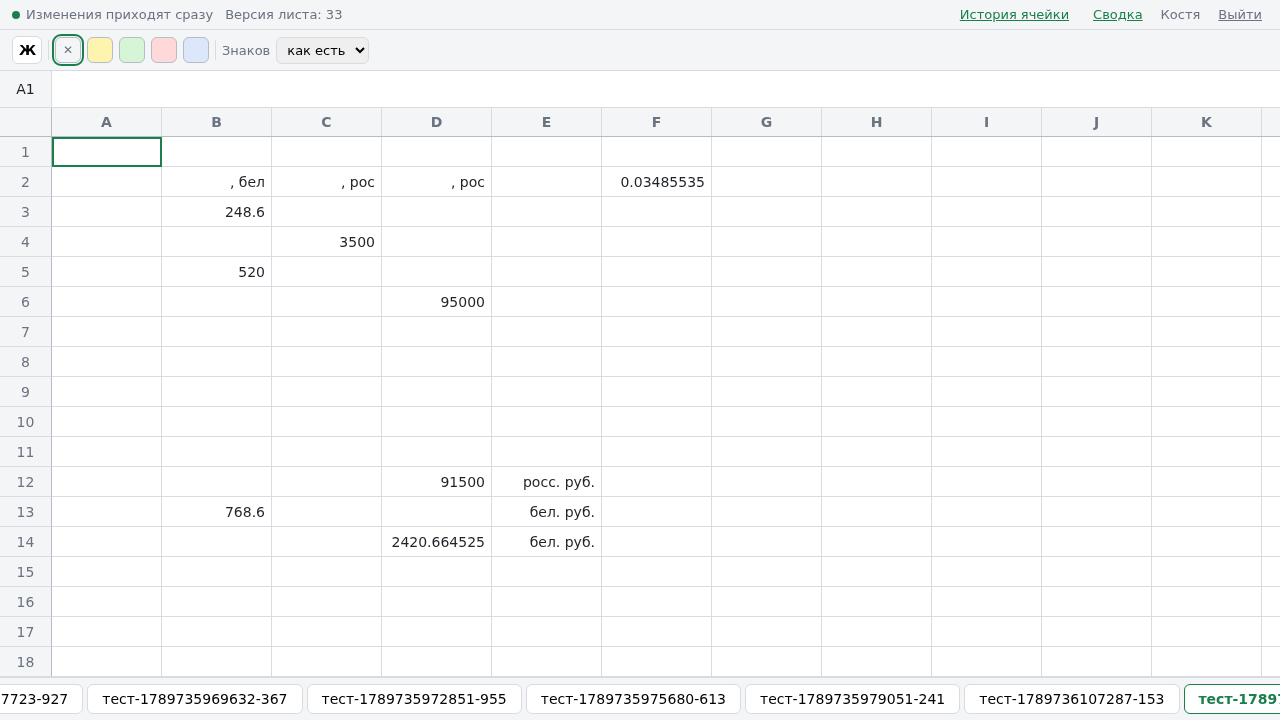
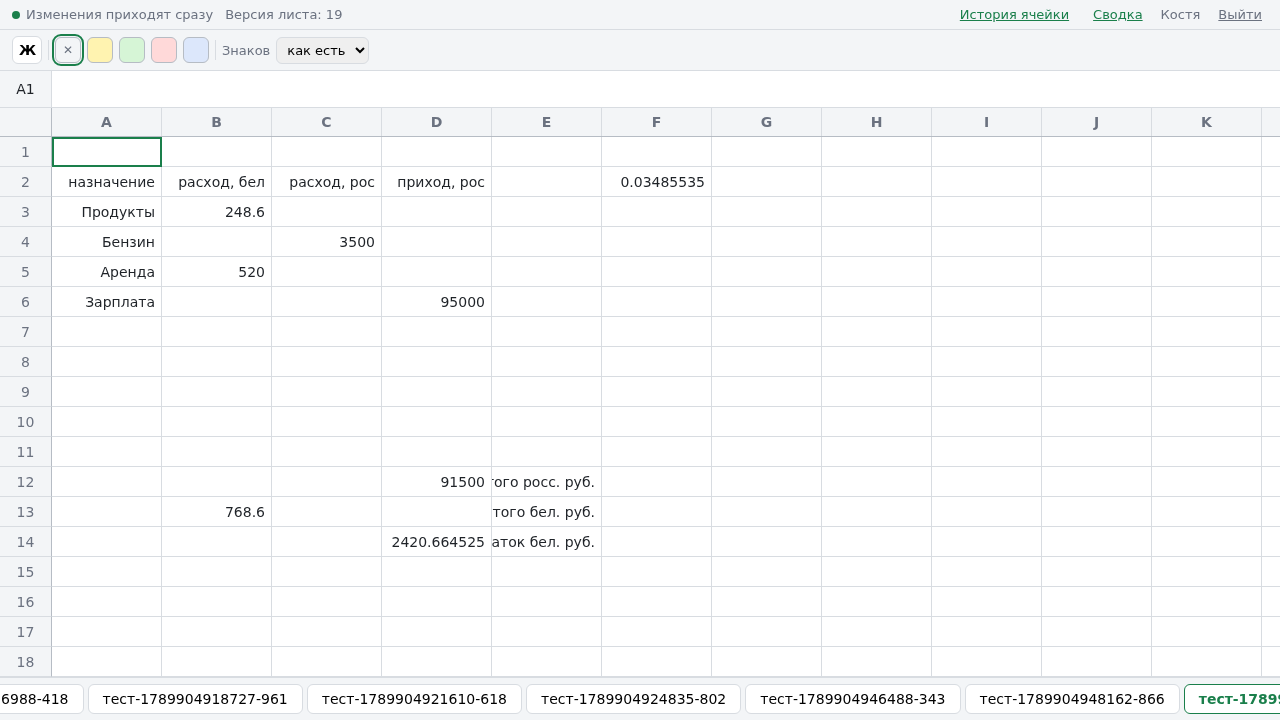
Ввод в сетке одним полем вместо поля на каждую правку
Поле рождалось при начале набора и умирало при её конце: отсюда ожидание
фокуса, ручной добор символов и слепое сохранение по уходу фокуса. Теперь поле
одно на всю сетку, живёт в разметке всегда и стоит поверх выбранной ячейки,
а вне правки сжимается в точку. Значение и фокус выставляются сразу, без
ожидания перерисовки.

Enter и Tab из поля больше не всплывают в сетку — она обрабатывала их повторно
и открывала правку заново на соседней ячейке. Открытая и не тронутая ячейка
не переписывается: запись идёт, только если значение изменилось.

Высота строки и ширина колонки номеров берутся из переменных оформления:
на телефоне они другие, и отрисовка видимых строк считала их неверно.

Записанная в журнале потеря начала строки оказалась артефактом тестов:
Playwright не шлёт нажатия клавиш для кириллицы, а вставляет такой текст прямо
в поле с фокусом. Помощник вписать открывает правку отдельным нажатием, снимок
для описания переснят, прогон снимков в Makefile починен.

diff --git a/frontend/src/features/sheet-grid/SheetGrid.vue b/frontend/src/features/sheet-grid/SheetGrid.vue
@@ -1,10 +1,11 @@
 <script setup lang="ts">
-import { computed, nextTick, onMounted, ref, watch } from 'vue';
+import { computed, onMounted, ref, watch } from 'vue';
 import { cellAddress, columnToLetters, displayedText, type Cell } from '../../entities/sheet';
 
-const ВЫСОТА_СТРОКИ = 30;
 const ШИРИНА_КОЛОНКИ_ПО_УМОЛЧАНИЮ = 110;
 const ЗАПАС_СТРОК = 6;
+const ВЫСОТА_СТРОКИ_ПО_УМОЛЧАНИЮ = 30;
+const ШИРИНА_НОМЕРА_ПО_УМОЛЧАНИЮ = 52;
 
 const properties = defineProps<{
     rowCount: number;
@@ -21,12 +22,19 @@ const emit = defineEmits<{
 
 const корень = ref<HTMLElement | null>(null);
 const область = ref<HTMLElement | null>(null);
-// Ссылка внутри v-for превращается в массив, поэтому поле запоминается вручную:
-// одновременно редактируется ровно одна ячейка, и хранить нужно один элемент.
-const редактор = { поле: null as HTMLInputElement | null };
+// Поле ввода одно на всю сетку и живёт в разметке всегда, просто становится
+// невидимым. Пока оно создавалось под каждую правку, фокус приходилось ждать,
+// и набранное до его появления пропадало.
+const поле = ref<HTMLInputElement | null>(null);
 const смещениеПрокрутки = ref(0);
 const высотаОбласти = ref(600);
-const редактируемоеЗначение = ref<string | null>(null);
+const высотаСтроки = ref(ВЫСОТА_СТРОКИ_ПО_УМОЛЧАНИЮ);
+const ширинаНомера = ref(ШИРИНА_НОМЕРА_ПО_УМОЛЧАНИЮ);
+const редактируется = ref(false);
+const редактируемоеЗначение = ref('');
+// Содержимое ячейки на момент начала правки: если человек ничего не изменил,
+// ячейку трогать не за что.
+const исходноеЗначение = ref('');
 
 const колонки = computed(() => Array.from({ length: properties.columnCount }, (_, index) => index + 1));
 
@@ -35,19 +43,50 @@ const колонки = computed(() => Array.from({ length: properties.columnCoun
  * колонок — это пять тысяч ячеек, и держать их все в разметке незачем.
  */
 const видимыеСтроки = computed(() => {
-    const первая = Math.max(1, Math.floor(смещениеПрокрутки.value / ВЫСОТА_СТРОКИ) + 1 - ЗАПАС_СТРОК);
-    const сколько = Math.ceil(высотаОбласти.value / ВЫСОТА_СТРОКИ) + ЗАПАС_СТРОК * 2;
+    const первая = Math.max(1, Math.floor(смещениеПрокрутки.value / высотаСтроки.value) + 1 - ЗАПАС_СТРОК);
+    const сколько = Math.ceil(высотаОбласти.value / высотаСтроки.value) + ЗАПАС_СТРОК * 2;
     const последняя = Math.min(properties.rowCount, первая + сколько);
 
     return Array.from({ length: последняя - первая + 1 }, (_, index) => первая + index);
 });
 
-const отступОкна = computed(() => ((видимыеСтроки.value[0] ?? 1) - 1) * ВЫСОТА_СТРОКИ);
-const полнаяВысота = computed(() => properties.rowCount * ВЫСОТА_СТРОКИ);
-const редактируется = computed(() => редактируемоеЗначение.value !== null);
+const отступОкна = computed(() => ((видимыеСтроки.value[0] ?? 1) - 1) * высотаСтроки.value);
+const полнаяВысота = computed(() => properties.rowCount * высотаСтроки.value);
+const режимВвода = computed(() => (редактируемоеЗначение.value.startsWith('=') ? 'text' : 'decimal'));
+
+/**
+ * Поле ввода стоит поверх выбранной ячейки, а вне правки сжимается в точку:
+ * убрать его из разметки нельзя — тогда оно снова не успевало бы к первому
+ * нажатию клавиши.
+ */
+const положениеПоля = computed(() => {
+    const сверху = (properties.selected.row - 1) * высотаСтроки.value;
+    const слева = отступКолонки(properties.selected.column);
+    const положение: Record<string, string> = { top: `${сверху}px`, left: `${слева}px` };
+
+    if (!редактируется.value) {
+        return { ...положение, width: '0', height: '0', padding: '0', border: 'none', opacity: '0' };
+    }
+
+    return {
+        ...положение,
+        width: `${ширинаКолонки(properties.selected.column)}px`,
+        height: `${высотаСтроки.value}px`,
+    };
+});
 
 function ширинаКолонки(column: number): number {
     return properties.columnWidths[columnToLetters(column)] ?? ШИРИНА_КОЛОНКИ_ПО_УМОЛЧАНИЮ;
+}
+
+function отступКолонки(column: number): number {
+    let отступ = ширинаНомера.value;
+
+    for (let номер = 1; номер < column; номер += 1) {
+        отступ += ширинаКолонки(номер);
+    }
+
+    return отступ;
 }
 
 function ячейка(row: number, column: number): Cell | undefined {
@@ -65,7 +104,7 @@ function приПрокрутке(event: Event): void {
 }
 
 function выбрать(row: number, column: number): void {
-    завершитьРедактирование();
+    сохранить();
 
     // Щелчок по ячейке возвращает фокус сетке: иначе после работы с вкладками
     // или панелями нажатия клавиш уходят в никуда и ввод не начинается.
@@ -76,22 +115,48 @@ function выбрать(row: number, column: number): void {
 
 function начатьРедактирование(начальноеЗначение?: string): void {
     const текущая = ячейка(properties.selected.row, properties.selected.column);
-    редактируемоеЗначение.value = начальноеЗначение ?? текущая?.input ?? '';
+    исходноеЗначение.value = текущая?.input ?? '';
+    редактируемоеЗначение.value = начальноеЗначение ?? исходноеЗначение.value;
+    редактируется.value = true;
 
-    void nextTick(() => редактор.поле?.focus());
+    const элемент = поле.value;
+
+    if (элемент === null) {
+        return;
+    }
+
+    // Значение и фокус выставляются сразу, не дожидаясь перерисовки: иначе
+    // следующие нажатия попадут в поле, где ещё пусто, и затрут начало строки.
+    элемент.value = редактируемоеЗначение.value;
+    элемент.focus();
+    элемент.setSelectionRange(элемент.value.length, элемент.value.length);
 }
 
-function завершитьРедактирование(): void {
-    редактируемоеЗначение.value = null;
+function отменитьРедактирование(): void {
+    редактируется.value = false;
+    редактируемоеЗначение.value = '';
+    исходноеЗначение.value = '';
 }
 
+/**
+ * Записывает правку, если она вообще была.
+ *
+ * Открытая и не тронутая ячейка не должна ни во что превращаться: раньше
+ * случайная потеря фокуса сохраняла пустое поле и стирала содержимое.
+ */
 function сохранить(): void {
-    if (редактируемоеЗначение.value === null) {
+    if (!редактируется.value) {
         return;
     }
 
     const введённое = редактируемоеЗначение.value;
-    завершитьРедактирование();
+    const изменилось = введённое !== исходноеЗначение.value;
+
+    отменитьРедактирование();
+
+    if (!изменилось) {
+        return;
+    }
 
     emit('commit', {
         row: properties.selected.row,
@@ -109,16 +174,6 @@ function сдвинуть(строкой: number, колонкой: number): voi
 
 function приНажатии(event: KeyboardEvent): void {
     if (редактируется.value) {
-        // Поле ввода появляется в разметке не мгновенно, и набранное за это время
-        // иначе пропадало бы: при быстром наборе «расход» превращалось в «ход».
-        const полеЕщёНеПолучилоФокус = document.activeElement !== редактор.поле;
-        const обычныйСимвол = event.key.length === 1 && !event.ctrlKey && !event.metaKey;
-
-        if (полеЕщёНеПолучилоФокус && обычныйСимвол) {
-            event.preventDefault();
-            редактируемоеЗначение.value = (редактируемоеЗначение.value ?? '') + event.key;
-        }
-
         return;
     }
 
@@ -151,22 +206,37 @@ function приНажатии(event: KeyboardEvent): void {
 }
 
 function приНажатииВПоле(event: KeyboardEvent): void {
+    // Клавиши поля не должны обрабатываться ещё и сеткой: всплывший Enter
+    // открывал правку заново, уже на соседней ячейке.
+    event.stopPropagation();
+
     if (event.key === 'Enter') {
         event.preventDefault();
         сохранить();
+        корень.value?.focus();
         сдвинуть(1, 0);
-    }
 
-    if (event.key === 'Escape') {
-        event.preventDefault();
-        завершитьРедактирование();
+        return;
     }
 
     if (event.key === 'Tab') {
         event.preventDefault();
         сохранить();
+        корень.value?.focus();
         сдвинуть(0, 1);
+
+        return;
     }
+
+    if (event.key === 'Escape') {
+        event.preventDefault();
+        отменитьРедактирование();
+        корень.value?.focus();
+    }
+}
+
+function приПотереФокуса(): void {
+    сохранить();
 }
 
 function стильЯчейки(cell: Cell | undefined): Record<string, string> {
@@ -195,10 +265,19 @@ function стильЯчейки(cell: Cell | undefined): Record<string, string> 
 
 watch(
     () => properties.selected,
-    () => завершитьРедактирование(),
+    () => отменитьРедактирование(),
 );
 
 onMounted(() => {
+    // Размеры заданы переменными оформления и на телефоне другие, поэтому
+    // берутся оттуда: сетка и поле ввода должны считать их одинаково.
+    const оформление = getComputedStyle(document.documentElement);
+    const высота = Number.parseInt(оформление.getPropertyValue('--высота-строки'), 10);
+    const ширина = Number.parseInt(оформление.getPropertyValue('--ширина-номера-строки'), 10);
+
+    высотаСтроки.value = Number.isNaN(высота) ? ВЫСОТА_СТРОКИ_ПО_УМОЛЧАНИЮ : высота;
+    ширинаНомера.value = Number.isNaN(ширина) ? ШИРИНА_НОМЕРА_ПО_УМОЛЧАНИЮ : ширина;
+
     // Сколько строк помещается на экране, известно только после отрисовки.
     высотаОбласти.value = область.value?.clientHeight ?? высотаОбласти.value;
 });
@@ -237,19 +316,20 @@ defineExpose({ начатьРедактирование });
                             @click="выбрать(row, column)"
                             @dblclick="начатьРедактирование()"
                         >
-                            <input
-                                v-if="выбрана(row, column) && редактируется"
-                                :ref="(элемент) => (редактор.поле = элемент as HTMLInputElement | null)"
-                                v-model="редактируемоеЗначение"
-                                class="сетка__ввод"
-                                :inputmode="редактируемоеЗначение?.startsWith('=') ? 'text' : 'decimal'"
-                                @keydown="приНажатииВПоле"
-                                @blur="сохранить"
-                            />
-                            <template v-else>{{ displayedText(ячейка(row, column)) }}</template>
+                            {{ displayedText(ячейка(row, column)) }}
                         </div>
                     </div>
                 </div>
+
+                <input
+                    ref="поле"
+                    v-model="редактируемоеЗначение"
+                    class="сетка__ввод"
+                    :style="положениеПоля"
+                    :inputmode="режимВвода"
+                    @keydown="приНажатииВПоле"
+                    @blur="приПотереФокуса"
+                />
             </div>
         </div>
     </div>

diff --git a/e2e/tests/вспомогательное.ts b/e2e/tests/вспомогательное.ts
@@ -23,9 +23,17 @@ export function ячейка(page: Page, колонка: string, строка: n
         .nth(номерКолонки - 1);
 }
 
+/**
+ * Вписывает значение в ячейку.
+ *
+ * Правка открывается отдельным нажатием: Playwright не умеет посылать нажатия
+ * клавиш для кириллицы — он вставляет такой текст прямо в поле, уже получившее
+ * фокус. Набор без открытой правки проверяется отдельно, латиницей.
+ */
 export async function вписать(page: Page, колонка: string, строка: number, значение: string): Promise<void> {
     await ячейка(page, колонка, строка).click();
-    await page.keyboard.type(значение);
+    await page.keyboard.press('F2');
+    await page.locator('.сетка__ввод').fill(значение);
     await page.keyboard.press('Enter');
 }
 

diff --git a/frontend/src/styles/main.css b/frontend/src/styles/main.css
@@ -250,13 +250,15 @@ button {
 }
 
 .сетка__ввод {
-    width: 100%;
-    height: 100%;
-    border: none;
+    position: absolute;
+    z-index: 2;
+    padding: 0 6px;
+    border: 2px solid var(--цвет-выделения);
     outline: none;
-    background: transparent;
+    background: var(--цвет-фона);
+    color: var(--цвет-текста);
     font: inherit;
-    text-align: inherit;
+    text-align: left;
 }
 
 .вкладки {
